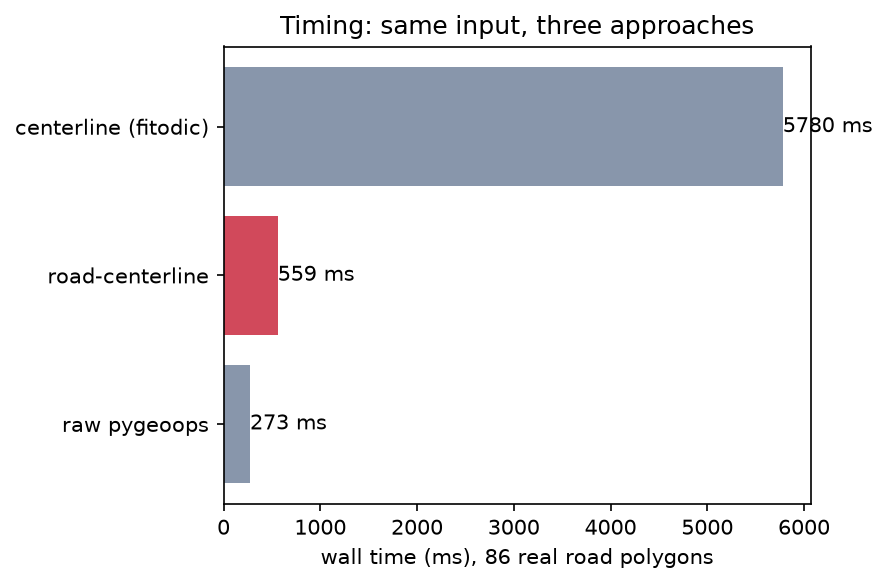
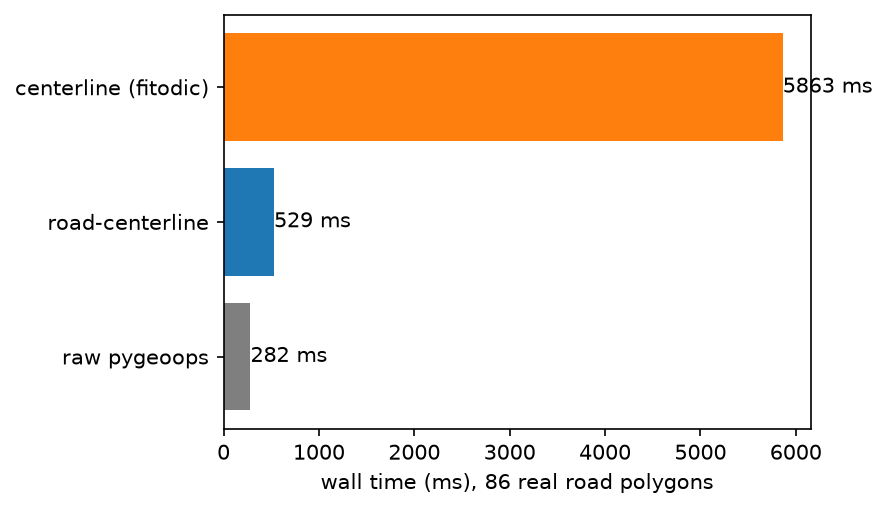
Redesign figures to match pygeoops' plain technical style, not a design deck
Replaced hidden-axes/custom-palette/full-sentence-title figures with the
convention pygeoops/shapely docs actually use: visible axes, default
matplotlib colors, small synthetic shapes for concept diagrams, captions in
the surrounding markdown rather than baked into the image. Real fixture
data is now reserved for tightly-cropped "proof it works on messy data"
figures (used only on the demo/network pages) instead of sprawling
whole-corridor overviews that were mostly empty space.

Also fixes a real bug found while updating docs/network.md's example: it
used the same target_crs-doesn't-affect-the-returned-CRS trap caught
earlier in the notebook.

Changed region(s): [[0.0, 0.0295, 1.0, 0.9725]]

diff --git a/benchmarks/generate_figures.py b/benchmarks/generate_figures.py
@@ -1,9 +1,12 @@
-"""Generate the figures used in the README and docs site from real data.
+"""Generate the figures used in the README and docs site.
 
-No fabricated numbers or hand-drawn diagrams: every figure here is rendered
-from the actual fixture (tests/fixtures/utrecht_roads.geojson) and the
-actual benchmarks/compare.py timings, so they stay truthful as the code
-changes. Run with the repo's dev environment active:
+Styled like pygeoops'/shapely's own documentation figures, not a designed
+graphic: plain matplotlib defaults, visible axes, small synthetic shapes for
+concept diagrams (real data doesn't demonstrate the mechanism as clearly at
+a glance), captions live in the surrounding markdown rather than baked into
+the image. Every figure is rendered by actually calling road_centerline's
+public API — nothing is hand-drawn or fabricated. Run with the repo's dev
+environment active:
 
     python benchmarks/generate_figures.py
 
@@ -18,23 +21,19 @@ from pathlib import Path
 import geopandas as gpd
 import matplotlib.pyplot as plt
 import pygeoops
-from shapely.geometry import Polygon
+from shapely.geometry import LineString, Polygon, box
+from shapely.ops import unary_union
 
 from road_centerline import build_network, compute_centerlines
-from road_centerline.core import _compute_centerlines_metric
 from road_centerline.crs import resolve_working_crs
 from road_centerline.validate import repair_geometries
 
 FIXTURE = Path(__file__).parent.parent / "tests" / "fixtures" / "utrecht_roads.geojson"
 OUT_DIR = Path(__file__).parent.parent / "docs" / "assets" / "img"
 
-# A stable color scheme used across every figure.
-POLYGON_FILL = "#c7d2e0"
-POLYGON_EDGE = "#8896ab"
-CENTERLINE = "#d1495b"
-EDGE_COLOR = "#2f6690"
-NODE_COLOR = "#d1495b"
-JUNCTION_COLOR = "#f4a300"
+CRS = "EPSG:32633"  # arbitrary projected CRS; these figures use schematic, unitless coordinates
+POLYGON_FILL = "#dddddd"
+POLYGON_EDGE = "#999999"
 
 
 def _save(fig, name: str) -> None:
@@ -45,75 +44,122 @@ def _save(fig, name: str) -> None:
     print(f"wrote {path}")
 
 
-def _dense_cluster_bbox(gdf: gpd.GeoDataFrame, pad_frac: float = 0.1) -> tuple:
-    """Bounding box of the main cluster of polygons, trimming a few far-flung outliers
-    so the overview figures aren't mostly empty space around one dense corridor."""
-    centroids = gdf.geometry.centroid
-    xmin, xmax = centroids.x.quantile([0.02, 0.98])
-    ymin, ymax = centroids.y.quantile([0.02, 0.98])
-    pad_x, pad_y = (xmax - xmin) * pad_frac, (ymax - ymin) * pad_frac
-    return (xmin - pad_x, ymin - pad_y, xmax + pad_x, ymax + pad_y)
+def _plot_line(ax, line: LineString, **kwargs) -> None:
+    xs, ys = line.xy
+    ax.plot(xs, ys, marker="o", markersize=5, **kwargs)
 
 
-def figure_input_polygons(gdf: gpd.GeoDataFrame) -> None:
-    fig, ax = plt.subplots(figsize=(7, 6))
-    gdf.plot(ax=ax, facecolor=POLYGON_FILL, edgecolor=POLYGON_EDGE, linewidth=0.5)
-    xmin, ymin, xmax, ymax = _dense_cluster_bbox(gdf)
-    ax.set_xlim(xmin, xmax)
-    ax.set_ylim(ymin, ymax)
-    ax.set_title(f"Input: {len(gdf)} road-surface polygons (OSM, Utrecht)")
-    ax.set_axis_off()
-    _save(fig, "input-polygons.png")
+def figure_concept_centerline() -> None:
+    """A simple 4-way road-crossing polygon and its centerline (single panel,
+    no in-image title — matches pygeoops.centerline's own basic example)."""
+    horiz, vert = box(0, 4, 12, 6), box(5, 0, 7, 10)
+    cross = unary_union([horiz, vert])
+    gdf = gpd.GeoDataFrame({"id": [1]}, geometry=[cross], crs=CRS)
+    result = compute_centerlines(gdf, densify_distance=1.0, min_branch_length=1.0)
+    centerline = result.geometry.iloc[0]
+
+    fig, ax = plt.subplots(figsize=(4, 4))
+    gpd.GeoSeries([cross]).plot(ax=ax, facecolor=POLYGON_FILL, edgecolor=POLYGON_EDGE)
+    for part in centerline.geoms if centerline.geom_type == "MultiLineString" else [centerline]:
+        _plot_line(ax, part, color="tab:blue")
+    ax.set_aspect("equal")
+    _save(fig, "concept-centerline.png")
 
 
-def figure_centerlines_overlay(gdf: gpd.GeoDataFrame, centerlines: gpd.GeoDataFrame) -> None:
-    fig, ax = plt.subplots(figsize=(7, 6))
-    gdf.plot(ax=ax, facecolor=POLYGON_FILL, edgecolor=POLYGON_EDGE, linewidth=0.3)
-    centerlines.plot(ax=ax, color=CENTERLINE, linewidth=1.2)
-    xmin, ymin, xmax, ymax = _dense_cluster_bbox(gdf)
-    ax.set_xlim(xmin, xmax)
-    ax.set_ylim(ymin, ymax)
-    ax.set_title("compute_centerlines(): polygons -> centerlines")
-    ax.set_axis_off()
-    _save(fig, "centerlines-overlay.png")
+def figure_concept_network() -> None:
+    """Three independent centerline segments approaching a junction with
+    slightly different endpoints (a), snapped by build_network() into one
+    shared node (b) — the actual mechanism build_network() implements,
+    not a real-data crop that's harder to parse at a glance."""
+    lines = [
+        LineString([(0, 5), (6.0, 5.0)]),
+        LineString([(10, 1), (6.3, 5.2)]),
+        LineString([(6.15, 5.35), (6, 10)]),
+    ]
+    gdf = gpd.GeoDataFrame({"id": [1, 2, 3]}, geometry=lines, crs=CRS)
+    colors = ["tab:blue", "tab:orange", "tab:green"]
+
+    fig, axes = plt.subplots(1, 2, figsize=(8, 4))
+
+    ax = axes[0]
+    for line, color in zip(lines, colors):
+        _plot_line(ax, line, color=color)
+    ax.set_title("a) independent centerlines")
+
+    ax = axes[1]
+    edges, nodes = build_network(gdf, snap_tolerance=1.0)
+    for row, color in zip(edges.itertuples(), colors):
+        _plot_line(ax, row.geometry, color=color)
+    degree = edges["u"].value_counts().add(edges["v"].value_counts(), fill_value=0)
+    junction = nodes[nodes["node_id"].isin(degree[degree >= 3].index)]
+    junction.plot(ax=ax, color="tab:red", markersize=60, zorder=3)
+    ax.set_title("b) build_network(): snapped to one node")
+
+    for ax in axes:
+        ax.set_aspect("equal")
+        ax.set_xlim(-0.5, 10.5)
+        ax.set_ylim(-0.5, 10.5)
+    fig.tight_layout()
+    _save(fig, "concept-network.png")
 
 
-def figure_network(metric_centerlines: gpd.GeoDataFrame, center: tuple, radius: float) -> None:
+def figure_repair_before_after() -> None:
+    bowtie = gpd.GeoSeries([Polygon([(0, 0), (10, 10), (10, 0), (0, 10)])])
+    repaired = repair_geometries(bowtie)
+
+    fig, axes = plt.subplots(1, 2, figsize=(8, 4.5))
+    for ax, geoms, letter in [
+        (axes[0], bowtie, "a) input"),
+        (axes[1], repaired, "b) after repair_invalid=True"),
+    ]:
+        geoms.plot(ax=ax, facecolor=POLYGON_FILL, edgecolor=POLYGON_EDGE)
+        ax.set_title(f"{letter}\nis_valid={geoms.iloc[0].is_valid}")
+        ax.set_aspect("equal")
+    fig.tight_layout()
+    _save(fig, "repair-before-after.png")
+
+
+CROP_CENTER, CROP_RADIUS = (641293.5, 5770609.7), 120
+
+
+def _crop_bbox() -> tuple:
+    cx, cy = CROP_CENTER
+    return (cx - CROP_RADIUS, cy - CROP_RADIUS, cx + CROP_RADIUS, cy + CROP_RADIUS)
+
+
+def figure_real_centerline_crop(gdf: gpd.GeoDataFrame, metric_centerlines: gpd.GeoDataFrame) -> None:
+    """One real, tightly-cropped junction from the OSM fixture: input polygons
+    with their computed centerlines overlaid. Proves the schematic diagrams
+    elsewhere hold up on messy real data too."""
+    working_gdf, _ = resolve_working_crs(gdf)
+    bbox = _crop_bbox()
+    polygons_clip = working_gdf.clip(bbox)
+    centerlines_clip = metric_centerlines.clip(bbox)
+
+    fig, ax = plt.subplots(figsize=(4, 4))
+    polygons_clip.plot(ax=ax, facecolor=POLYGON_FILL, edgecolor=POLYGON_EDGE)
+    centerlines_clip.plot(ax=ax, color="tab:blue", linewidth=1.5)
+    ax.set_axis_off()  # real UTM coordinates aren't meaningful axis labels here
+    _save(fig, "real-centerline-crop.png")
+
+
+def figure_real_junction_crop(metric_centerlines: gpd.GeoDataFrame) -> None:
+    """The same real crop's network output: centerline endpoints snapped
+    into a shared junction node."""
     edges, nodes = build_network(metric_centerlines, snap_tolerance=1.0)
-    cx, cy = center
-    bbox = (cx - radius, cy - radius, cx + radius, cy + radius)
-    edges_clip = edges.clip(bbox)
-    nodes_clip = nodes.clip(bbox)
+    bbox = _crop_bbox()
+    edges_clip, nodes_clip = edges.clip(bbox), nodes.clip(bbox)
 
     degree = edges["u"].value_counts().add(edges["v"].value_counts(), fill_value=0)
     junction_ids = set(degree[degree >= 3].index)
     nodes_clip = nodes_clip.copy()
     nodes_clip["is_junction"] = nodes_clip["node_id"].isin(junction_ids)
 
-    fig, ax = plt.subplots(figsize=(6, 6))
-    edges_clip.plot(ax=ax, color=EDGE_COLOR, linewidth=2)
-    nodes_clip[~nodes_clip["is_junction"]].plot(ax=ax, color=NODE_COLOR, markersize=25, zorder=3)
-    nodes_clip[nodes_clip["is_junction"]].plot(
-        ax=ax, color=JUNCTION_COLOR, markersize=70, zorder=4, edgecolor="black", linewidth=0.5
-    )
-    ax.set_title("build_network(): snapped junction nodes (orange) vs endpoints (red)")
-    ax.set_axis_off()
-    _save(fig, "network-graph.png")
-
-
-def figure_repair_before_after() -> None:
-    bowtie = Polygon([(0, 0), (10, 10), (10, 0), (0, 10)])
-    repaired = repair_geometries(gpd.GeoSeries([bowtie])).iloc[0]
-
-    fig, axes = plt.subplots(1, 2, figsize=(8, 4))
-    for ax, geom, title in [
-        (axes[0], bowtie, f"Input (self-intersecting)\nis_valid={bowtie.is_valid}"),
-        (axes[1], repaired, f"After repair_invalid=True\nis_valid={repaired.is_valid}"),
-    ]:
-        gpd.GeoSeries([geom]).plot(ax=ax, facecolor=POLYGON_FILL, edgecolor=POLYGON_EDGE)
-        ax.set_title(title)
-        ax.set_axis_off()
-    _save(fig, "repair-before-after.png")
+    fig, ax = plt.subplots(figsize=(4, 4))
+    edges_clip.plot(ax=ax, color="tab:blue", linewidth=2)
+    nodes_clip[nodes_clip["is_junction"]].plot(ax=ax, color="tab:red", markersize=50, zorder=3)
+    ax.set_axis_off()  # real UTM coordinates aren't meaningful axis labels here
+    _save(fig, "real-junction-crop.png")
 
 
 def figure_benchmark_chart(gdf: gpd.GeoDataFrame) -> None:
@@ -129,7 +175,7 @@ def figure_benchmark_chart(gdf: gpd.GeoDataFrame) -> None:
 
     labels = ["raw pygeoops", "road-centerline"]
     times = [raw_time * 1000, rc_time * 1000]
-    colors = [POLYGON_EDGE, CENTERLINE]
+    colors = ["tab:gray", "tab:blue"]
 
     try:
         from centerline.geometry import Centerline
@@ -143,28 +189,28 @@ def figure_benchmark_chart(gdf: gpd.GeoDataFrame) -> None:
         centerline_pkg_time = time.perf_counter() - start
         labels.append("centerline (fitodic)")
         times.append(centerline_pkg_time * 1000)
-        colors.append("#8896ab")
+        colors.append("tab:orange")
     except ImportError:
         pass
 
-    fig, ax = plt.subplots(figsize=(6, 4))
+    fig, ax = plt.subplots(figsize=(6, 3.5))
     bars = ax.barh(labels, times, color=colors)
     ax.set_xlabel("wall time (ms), 86 real road polygons")
     ax.bar_label(bars, fmt="%.0f ms")
-    ax.set_title("Timing: same input, three approaches")
     fig.tight_layout()
     _save(fig, "benchmark-chart.png")
 
 
 def main() -> None:
     gdf = gpd.read_file(FIXTURE)
-    centerlines = compute_centerlines(gdf)
-    metric_centerlines, _ = _compute_centerlines_metric(gdf)
+    working_gdf, _ = resolve_working_crs(gdf)
+    metric_centerlines = compute_centerlines(gdf).to_crs(working_gdf.crs)
 
-    figure_input_polygons(gdf)
-    figure_centerlines_overlay(gdf, centerlines)
-    figure_network(metric_centerlines, center=(641293.5, 5770609.7), radius=150)
+    figure_concept_centerline()
+    figure_concept_network()
     figure_repair_before_after()
+    figure_real_centerline_crop(gdf, metric_centerlines)
+    figure_real_junction_crop(metric_centerlines)
     figure_benchmark_chart(gdf)
 
 

diff --git a/docs/network.md b/docs/network.md
@@ -10,21 +10,31 @@ each polygon just becomes its own disconnected line.
 snaps endpoints within `snap_tolerance` of each other (transitively) into
 shared nodes, so the result is an actual routable graph:
 
-![Centerline endpoints snapped into shared junction nodes](assets/img/network-graph.png)
+![Three independent centerlines with nearby but distinct endpoints, snapped into one shared node](assets/img/concept-network.png)
 
-Orange nodes are junctions (three or more edges meet there); red nodes are
-plain endpoints. This is a real crop of the demo fixture — see [Demo](demo.md).
+Panel (a) is three independent centerlines with endpoints that are close but
+not identical — exactly what `compute_centerlines()` produces at a junction.
+Panel (b) is `build_network()`'s output: all three now share one node (red).
+
+The same thing on a real, messy road junction from the demo fixture (see
+[Demo](demo.md)):
+
+![A real junction from OSM data, with its centerline endpoints snapped into a shared node](assets/img/real-junction-crop.png)
 
 ## Usage
 
 ```python
 from road_centerline import compute_centerlines, build_network, to_networkx
 
-# Network building is distance-based, so do it before reprojecting to a
-# geographic CRS — process_file(..., build_network=True) handles this for
-# you automatically.
-centerlines = compute_centerlines(gdf, target_crs="EPSG:32633")
-edges, nodes = build_network(centerlines, snap_tolerance=1.0)
+centerlines = compute_centerlines(gdf)
+
+# Network building is distance-based. compute_centerlines() always returns
+# the input's original CRS — target_crs only controls the *working* math —
+# so reproject to a metric CRS yourself before networking, unless you're
+# going through process_file(..., build_network=True), which handles this
+# distinction for you automatically.
+metric_centerlines = centerlines.to_crs(centerlines.estimate_utm_crs())
+edges, nodes = build_network(metric_centerlines, snap_tolerance=1.0)
 
 # Optional: pip install road-centerline[network]
 graph = to_networkx(edges, nodes)

diff --git a/docs/demo.md b/docs/demo.md
@@ -22,7 +22,7 @@ gdf = gpd.read_file("tests/fixtures/utrecht_roads.geojson")
 centerlines = compute_centerlines(gdf, densify_distance=10.0)
 ```
 
-![Input polygons with computed centerlines overlaid](assets/img/centerlines-overlay.png)
+![A real lane-split junction: input polygons (grey) with computed centerlines overlaid (blue)](assets/img/real-centerline-crop.png)
 
 ## Robustness to invalid input
 
@@ -62,7 +62,7 @@ edges, nodes = build_network(metric_centerlines, snap_tolerance=1.0)
 # 86 input polygons -> 230 edges, 316 nodes
 ```
 
-![Centerline endpoints snapped into shared junction nodes](assets/img/network-graph.png)
+![The same real junction's centerline endpoints snapped into a shared node](assets/img/real-junction-crop.png)
 
 !!! warning "CRS gotcha"
     `compute_centerlines(..., target_crs=...)` only controls the *working*

diff --git a/README.md b/README.md
@@ -13,7 +13,7 @@ in any input CRS, in any format geopandas can read or write.
 [How this compares](https://dbishal13.github.io/Road-Centerline/comparison/) ·
 [Changelog](CHANGELOG.md)
 
-![Road polygons overlaid with their computed centerlines](https://raw.githubusercontent.com/DBishal13/Road-Centerline/main/docs/assets/img/centerlines-overlay.png)
+![A road-crossing polygon and its computed centerline](https://raw.githubusercontent.com/DBishal13/Road-Centerline/main/docs/assets/img/concept-centerline.png)
 
 Given a polygon representing a road's outline, `road-centerline` optionally
 densifies its edges (adding vertices so long, straight edges don't starve the

diff --git a/docs/index.md b/docs/index.md
@@ -4,7 +4,7 @@ Extract road centerlines from polygon geometries (road contours) — worldwide,
 in any input CRS, in any format [geopandas](https://geopandas.org/) can read
 or write.
 
-![Road polygons overlaid with their computed centerlines](assets/img/centerlines-overlay.png)
+![A road-crossing polygon and its computed centerline](assets/img/concept-centerline.png)
 
 Given a polygon representing a road's outline, `road-centerline` optionally
 densifies its edges (adding vertices so long, straight edges don't starve the
